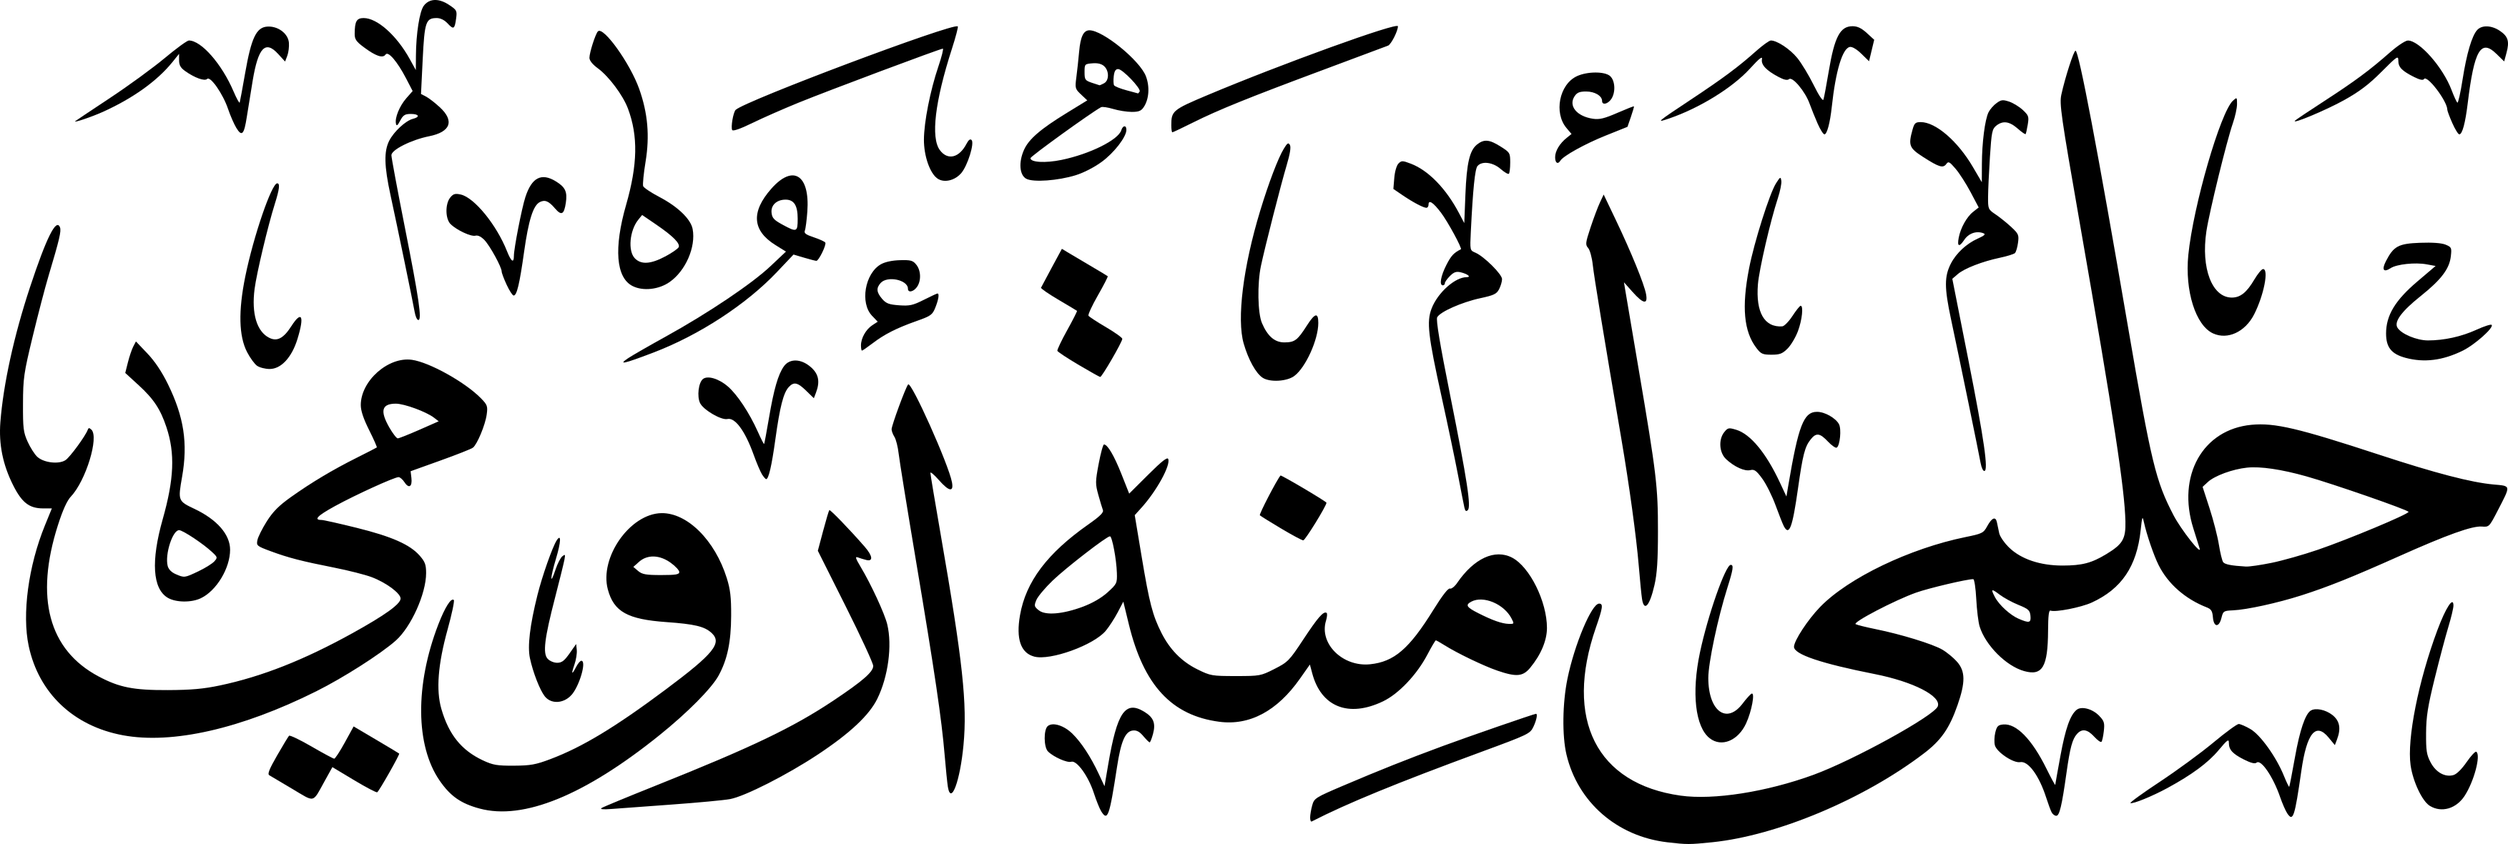
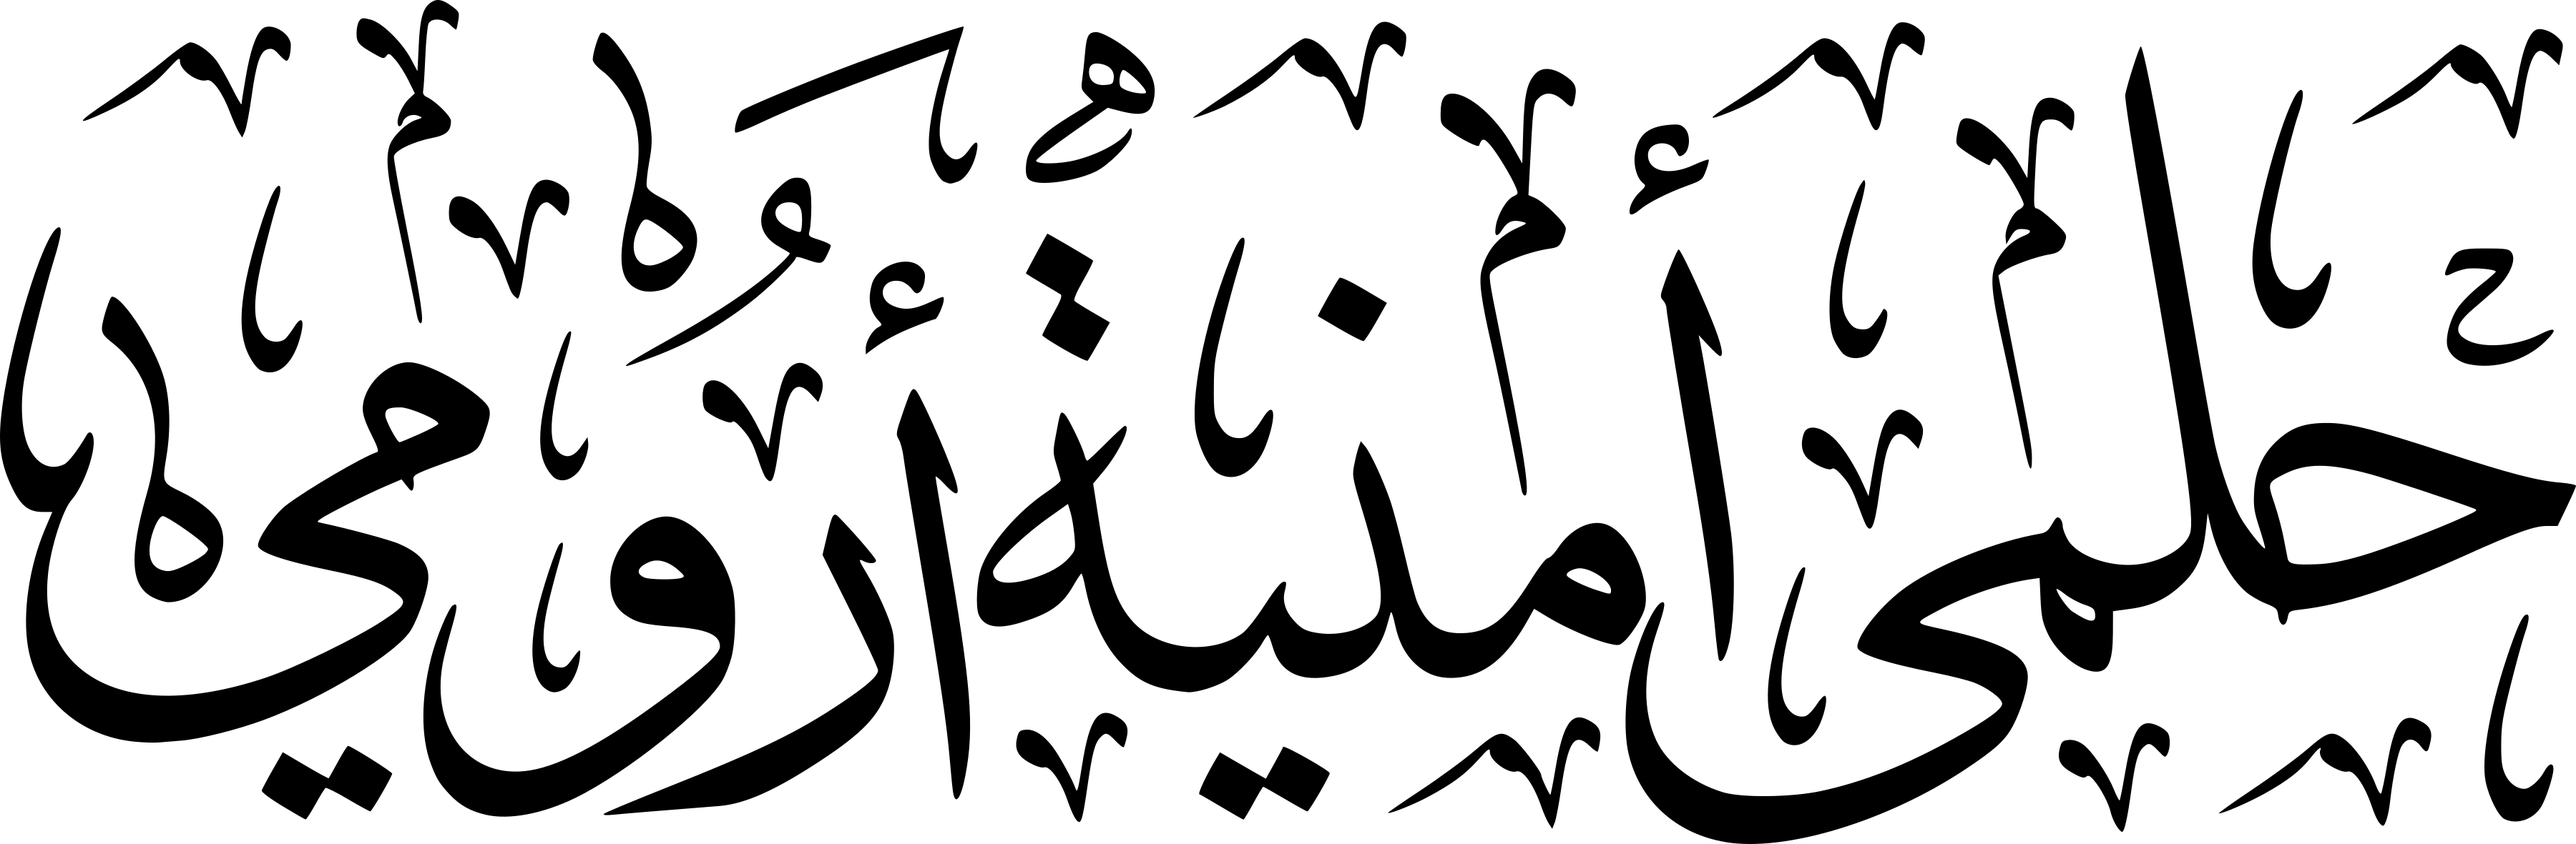
Update gambar #12 حلمى أمنية أرومي

diff --git a/manifest.js b/manifest.js
@@ -10,7 +10,7 @@ window.CALLIGRAPHY = [
   {"n":9,"name":"تيارا نورحليزا","src":"png/09.png","orig":"تيارا نورحليزا.png","w":3485,"h":1184},
   {"n":10,"name":"جيهان أضحى نبيلة","src":"png/10.png","orig":"جيهان أضحى نبيلة.png","w":4543,"h":1181},
   {"n":11,"name":"حفنا زاهدة","src":"png/11.png","orig":"حفنا زاهدة.png","w":2781,"h":1181},
-  {"n":12,"name":"حلمى أمنية أرومي","src":"png/12.png","orig":"حلمى أمنية أرومي.png","w":3507,"h":1181},
+  {"n":12,"name":"حلمى أمنية أرومي","src":"png/12.png","orig":"حلمى أمنية أرومي.png","w":3601,"h":1181},
   {"n":13,"name":"حميدة أسلامية وردة","src":"png/13.png","orig":"حميدة أسلامية وردة.png","w":4465,"h":1181},
   {"n":14,"name":"حنيف فطرية التقي","src":"png/14.png","orig":"حنيف فطرية التقي.png","w":3529,"h":1181},
   {"n":15,"name":"حنين نافعة","src":"png/15.png","orig":"حنين نافعة.png","w":3260,"h":1181},
